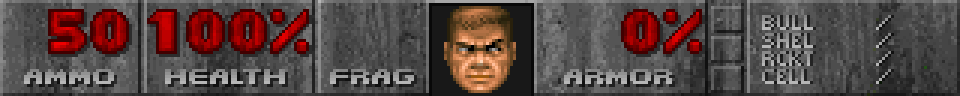
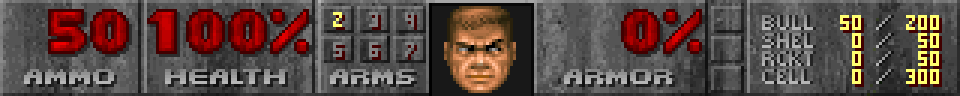
Doom: the whole status bar (v0.60.230)
The ARMS box and its digits, the ammo panel's counts and the keys, as st_stuff.c draws them.

diff --git a/src/doom.c b/src/doom.c
@@ -1792,6 +1792,12 @@ static uint32_t st_digit_sz[10] = {0};
 static uint8_t *st_percent   = NULL;
 static uint8_t *st_bar       = NULL;
 static uint8_t *st_face      = NULL;
+/* (v0.60.230) the right of the bar: the ARMS box, its digits, the small
+ * ammo numbers, the keys */
+static uint8_t *st_arms      = NULL;
+static uint8_t *st_ysnum[10] = {0};             /* STYSNUM0-9: small yellow */
+static uint8_t *st_gnum[8]   = {0};             /* STGNUM2-7: small grey (2..7 used) */
+static uint8_t *st_keys[6]   = {0};             /* STKEYS0-5: blue, yellow, red cards; skulls */
 
 static uint8_t *load_patch_cached(const char *name, uint32_t *out_sz) {
     int idx = wad_find_lump(name);
@@ -1813,6 +1819,11 @@ static void st_cache_init(void) {
         st_digit[d] = load_patch_cached(name, &st_digit_sz[d]);
     }
     st_percent = load_patch_cached("STTPRCNT", NULL);
+    st_arms    = load_patch_cached("STARMS",   NULL);
+    char sm[9] = "STYSNUM0", gn[8] = "STGNUM2", ky[8] = "STKEYS0";
+    for (int d = 0; d < 10; d++) { sm[7] = (char)('0' + d); st_ysnum[d] = load_patch_cached(sm, NULL); }
+    for (int d = 2; d < 8; d++)  { gn[6] = (char)('0' + d); st_gnum[d]  = load_patch_cached(gn, NULL); }
+    for (int d = 0; d < 6; d++)  { ky[6] = (char)('0' + d); st_keys[d]  = load_patch_cached(ky, NULL); }
     st_bar     = load_patch_cached("STBAR",    NULL);
     st_face    = load_patch_cached("STFST00",  NULL);
 }
@@ -1823,6 +1834,10 @@ static void st_cache_free(void) {
         st_digit_sz[d] = 0;
     }
     if (st_percent) { kfree(st_percent); st_percent = NULL; }
+    if (st_arms)    { kfree(st_arms);    st_arms    = NULL; }
+    for (int d = 0; d < 10; d++) if (st_ysnum[d]) { kfree(st_ysnum[d]); st_ysnum[d] = NULL; }
+    for (int d = 0; d < 8; d++)  if (st_gnum[d])  { kfree(st_gnum[d]);  st_gnum[d]  = NULL; }
+    for (int d = 0; d < 6; d++)  if (st_keys[d])  { kfree(st_keys[d]);  st_keys[d]  = NULL; }
     if (st_bar)     { kfree(st_bar);     st_bar     = NULL; }
     if (st_face)    { kfree(st_face);    st_face    = NULL; }
 }
@@ -1845,6 +1860,14 @@ static void st_number(int n, int rx, int y, int digits) {
     }
 }
 
+/* The small numbers of the ammo panel, as st_number but in STYSNUM. */
+static void st_small(int n, int rx, int y) {
+    if (!st_ysnum[0]) return;
+    int w = *(const int16_t *)st_ysnum[0], x = rx;
+    if (w <= 0 || w >= 64) return;
+    if (n <= 0) { draw_patch(st_ysnum[0], x - w, y); return; }
+    for (int d = 0; d < 3 && n; d++) { x -= w; if (st_ysnum[n % 10]) draw_patch(st_ysnum[n % 10], x, y); n /= 10; }
+}
 static void draw_statusbar(void) {
     st_cache_init();
     if (st_bar)  draw_patch(st_bar,  0,         ST_Y);
@@ -1856,6 +1879,22 @@ static void draw_statusbar(void) {
         draw_patch(st_percent, ST_HEALTHX, ST_HEALTHY);   /* at the field's end, as Doom's (v0.60.229: was +1) */
         draw_patch(st_percent, ST_ARMORX,  ST_ARMORY);
     }
+    /* (v0.60.230) As st_stuff.c, a game that is not deathmatch: the ARMS
+     * box over STBAR's FRAG at (104,168), weapons 2-7 at 111 + 12 a column,
+     * 172 + 10 a row, yellow if owned (only the pistol here) and grey if not;
+     * the ammo held at x 288 and the most at 314, on rows 173 (bullets),
+     * 179 (shells), 185 (rockets), 191 (cells). One pool here: every
+     * pickup is bullets, so the others are 0. The keys at 239, 171 + 10 a
+     * key (blue, yellow, red). */
+    if (st_arms) draw_patch(st_arms, 104, 168);
+    for (int i = 0; i < 6; i++) {
+        uint8_t *g = i == 0 ? st_ysnum[2] : st_gnum[i + 2];
+        if (g) draw_patch(g, 111 + (i % 3) * 12, 172 + (i / 3) * 10);
+    }
+    static const int ammo_y[4] = { 173, 179, 185, 191 }, ammo_max[4] = { 200, 50, 50, 300 };
+    for (int a = 0; a < 4; a++) { st_small(a == 0 ? pl_ammo : 0, 288, ammo_y[a]); st_small(ammo_max[a], 314, ammo_y[a]); }
+    for (int k = 0; k < 3; k++)
+        if ((pl_keys & (k == 0 ? KEY_BLUE : k == 1 ? KEY_YELLOW : KEY_RED)) && st_keys[k]) draw_patch(st_keys[k], 239, 171 + k * 10);
 }
 
 /* ── Collision detection ─────────────────────────────────────────────────── */

diff --git a/CLAUDE.md b/CLAUDE.md
@@ -3,7 +3,7 @@
 ## What this is
 
 soupOS is a 32-bit x86 hobby OS written in C and NASM assembly (currently
-**v0.60.229**; ROADMAP.txt is the authority on the version). It boots via GRUB and runs in protected mode with paging, a
+**v0.60.230**; ROADMAP.txt is the authority on the version). It boots via GRUB and runs in protected mode with paging, a
 physical/heap allocator, and a cooperative scheduler. On top of that:
 
 - **Filesystem**: FAT16 read/write with subdirectories ("bowls") and a VFS shim

diff --git a/docs/NIGHT-QUEUE.md b/docs/NIGHT-QUEUE.md
@@ -51,7 +51,7 @@ asked on 2026-10-11; the user has not seen it.
 
 ---
 
-## 1. Doom: the status bar's arms and ammo panel
+## 1. Doom: the status bar's arms and ammo panel — DONE v0.60.230
 
 The right of the status bar shows BULL SHEL RCKT CELL with slashes and
 no numbers; the ARMS box no digits. Doom draws (st_stuff.c) the ammo
